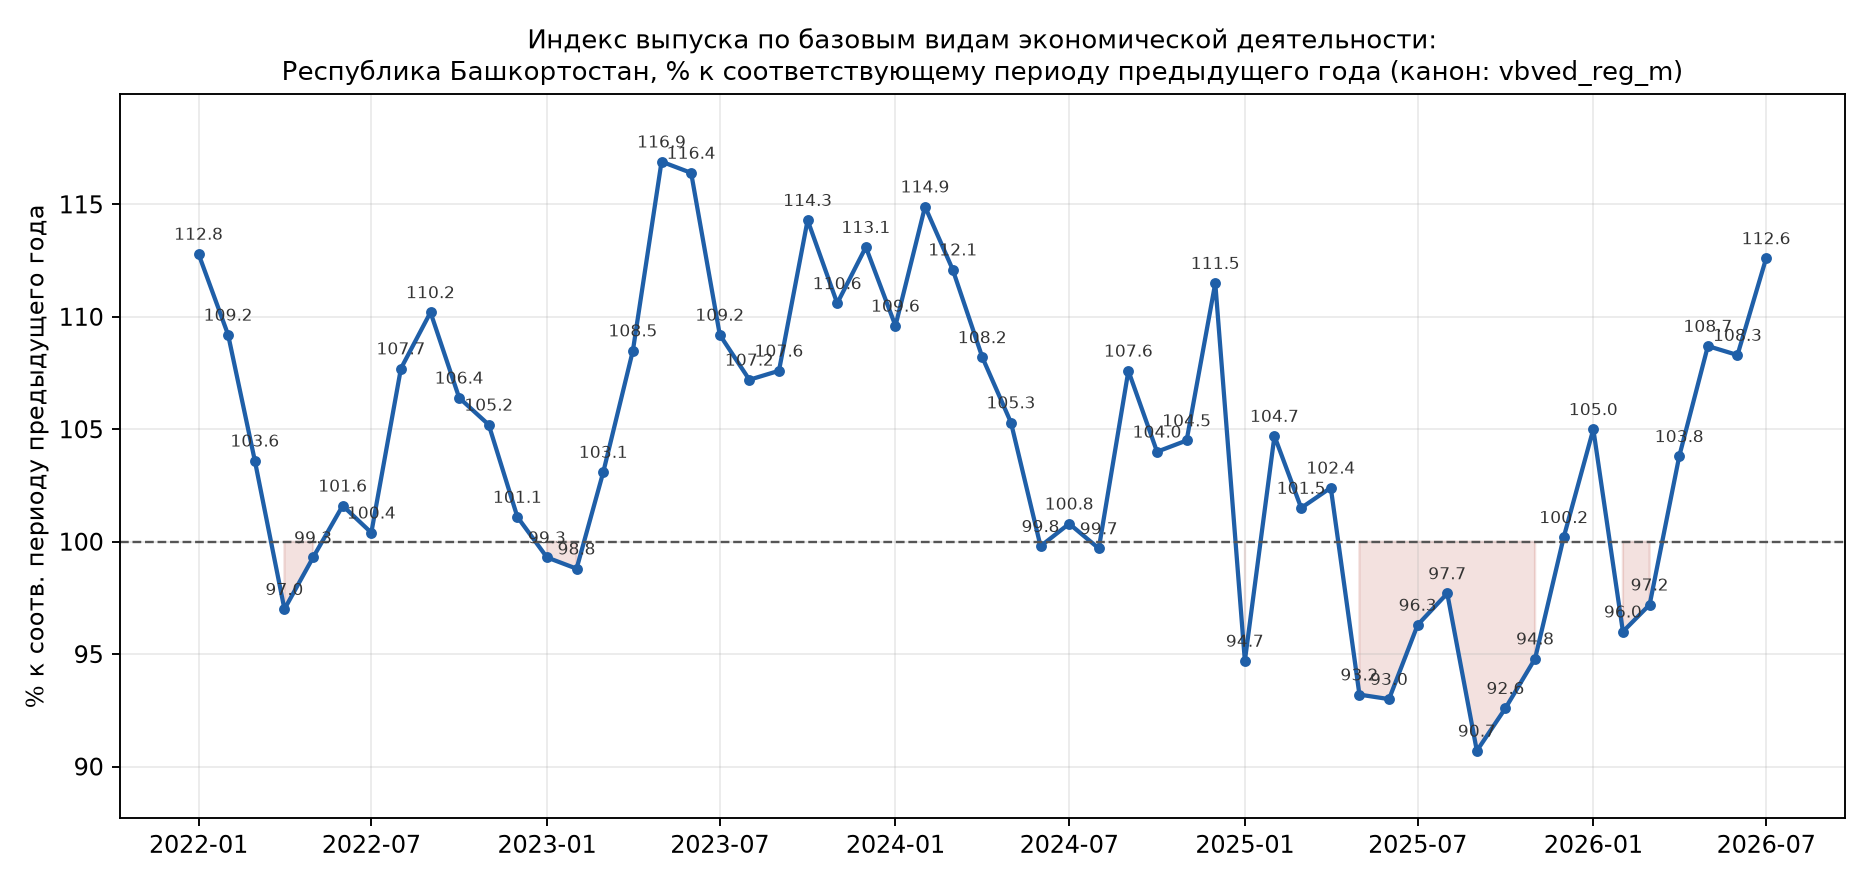
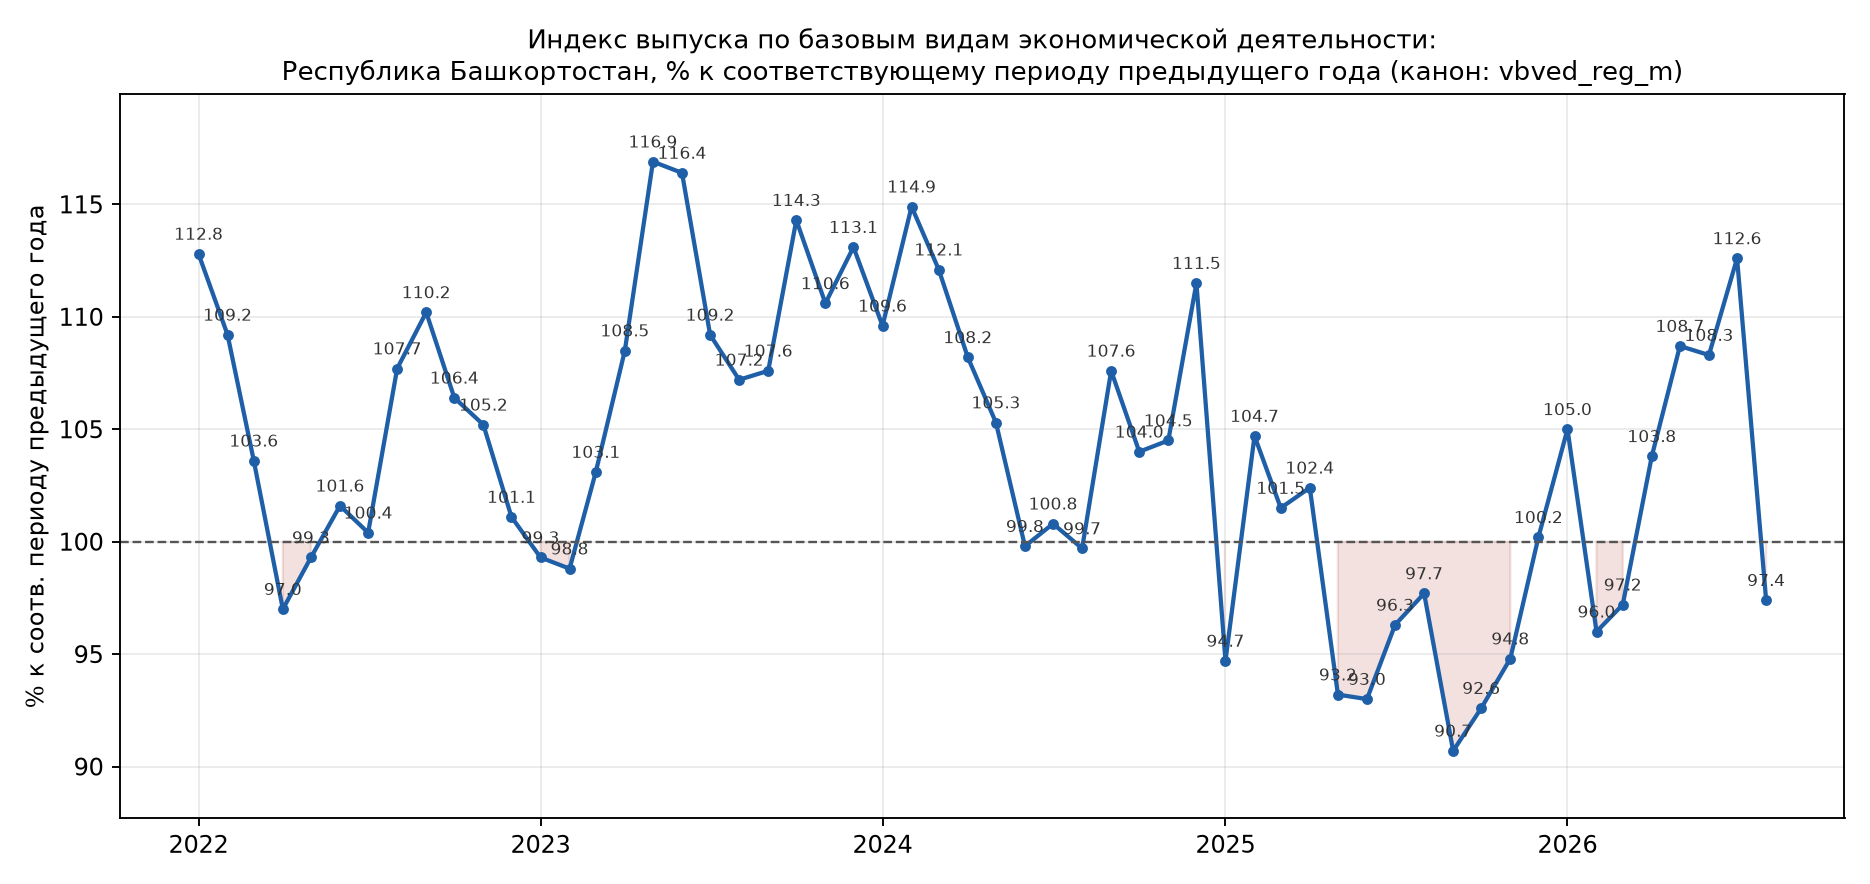
ВБВЭД: первоисточник fedstat через exit node ноутбука, август 2026 в каноне

diff --git a/scripts/vbved_reg_canon.py b/scripts/vbved_reg_canon.py
@@ -25,6 +25,7 @@ from __future__ import annotations
 
 import argparse
 import collections
+import time
 import json
 import os
 import re
@@ -49,6 +50,8 @@ METRIC_CODE = 'vbved_reg_m'
 METRIC_NAME = ('Индекс выпуска товаров и услуг по базовым видам экономической '
                'деятельности, % к соответствующему периоду предыдущего года (регионы)')
 RELEASE = 'ЕМИСС 62024, зеркало nsEDC, снимок 2026-10-20'
+RELEASE_FEDSTAT = 'ЕМИСС 62024, fedstat.ru (первоисточник), снимок 2026-10-21'
+XLS_PATH = os.path.join(RAW_DIR, '62024_fedstat_20261021.xls')
 UNIT = 'pct'
 FREQ = 'M'
 
@@ -86,6 +89,51 @@ def fetch_raw() -> None:
 def clean_region(s: str) -> str:
     s = re.sub(r'^\s*\d{3,11}\s+', '', str(s))
     return re.sub(r'\s+', ' ', s).strip()
+
+
+def period_of(per: str):
+    """'115 январь' → ('январь', None); 'M01_02 январь-февраль' → (…, 'накопительно: …')."""
+    m = re.match(r'^[A-Za-z0-9_]+\s+(.+)$', str(per).strip())
+    label = (m.group(1) if m else str(per)).strip()
+    if label in MONTHS:
+        return label, None
+    if re.match(r'^январь-', label):
+        return label, 'накопительно: %s' % label
+    return None, None
+
+
+def parse_xls(path: str) -> tuple[list[dict], dict]:
+    """Первоисточник: выгрузка ЕМИСС (кнопка «Скачать», формат excel).
+
+    Лист «Данные»: строки — вид показателя, регион, единица, период; годы — колонками.
+    """
+    import xlrd
+    wb = xlrd.open_workbook(path)
+    sh = wb.sheet_by_index(0)
+    hdr = sh.row_values(2)
+    year_cols = {int(h): i for i, h in enumerate(hdr) if re.fullmatch(r'\d{4}', str(h).strip())}
+    stats = {'строк в файле': sh.nrows - 3, 'месячных': 0, 'накопительных': 0,
+             'значений': 0, 'пустых': 0, 'годы': sorted(year_cols)}
+    rows = []
+    for i in range(3, sh.nrows):
+        v = sh.row_values(i)
+        label, sub = period_of(v[3])
+        if label is None:
+            continue
+        stats['месячных' if sub is None else 'накопительных'] += 1
+        reg = clean_region(v[1])
+        for y, col in year_cols.items():
+            raw = v[col]
+            if raw is None or str(raw).strip() in ('', '-'):
+                stats['пустых'] += 1
+                continue
+            val = raw if isinstance(raw, float) else float(str(raw).replace(',', '.').strip())
+            rows.append({'регион': reg, 'год': y,
+                         'месяц': MONTHS.get(label) if sub is None else None,
+                         'метка': label, 'sub': sub, 'значение': float(val),
+                         'единица': str(v[2])})
+            stats['значений'] += 1
+    return rows, stats
 
 
 def parse() -> tuple[list[dict], dict]:
@@ -131,7 +179,7 @@ def parse() -> tuple[list[dict], dict]:
     return rows, stats
 
 
-def build(rows, w: Writer) -> tuple[list[dict], dict]:
+def build(rows, w: Writer, release: str = RELEASE) -> tuple[list[dict], dict]:
     """Строки под Writer.ingest + счётчики распознавания регионов."""
     names = {}
     # варианты состава различаем подразрезом ТОЛЬКО когда на один регион в источнике
@@ -161,7 +209,7 @@ def build(rows, w: Writer) -> tuple[list[dict], dict]:
         out.append({'metric_name': METRIC_NAME, 'value': r['значение'],
                     'ps': (r['год'], r['месяц'] if r['месяц'] else 1),
                     'region': rid, 'sub': sub, 'freq': FREQ,
-                    'source': SOURCE, 'release': RELEASE, 'unit': UNIT,
+                    'source': SOURCE, 'release': release, 'unit': UNIT,
                     '_label': r['метка']})
     # накопительные периоды ставим началом периода: (год, 1), месяц 1
     return out, {'не распознано': sorted(set(lost))}
@@ -188,19 +236,33 @@ def main() -> int:
     ap.add_argument('--check', action='store_true')
     ap.add_argument('--apply', action='store_true')
     ap.add_argument('--refresh', action='store_true', help='перекачать сырьё из зеркала')
+    ap.add_argument('--xls', nargs='?', const=XLS_PATH, default=None,
+                    help='читать выгрузку первоисточника (fedstat) вместо зеркала')
+    ap.add_argument('--drop-mirror', action='store_true',
+                    help='после записи снять строки зеркального релиза (первоисточник их замещает)')
     a = ap.parse_args()
     if not (a.check or a.apply):
         ap.error('нужен --check или --apply')
     if a.refresh:
         fetch_raw()
-    rows, stats = parse()
+    if a.xls:
+        if not os.path.exists(a.xls):
+            print('ОСТАНОВ: нет файла %s' % a.xls)
+            return 2
+        rows, stats = parse_xls(a.xls)
+        release = RELEASE_FEDSTAT
+        print('источник: первоисточник fedstat (%s)' % os.path.basename(a.xls))
+    else:
+        rows, stats = parse()
+        release = RELEASE
+        print('источник: зеркало nsEDC (%s)' % os.path.basename(CSV_PATH))
     print('разбор: строк %d, месячных %d, накопительных %d, значений %d, пусто %d'
           % (stats['строк в файле'], stats['месячных'], stats['накопительных'],
              stats['значений'], stats['пустых']))
     print('единицы в источнике: %s' % sorted({r['единица'] for r in rows}))
 
     w = Writer(tag='vbved', simulate=a.check)
-    prep, info = build(rows, w)
+    prep, info = build(rows, w, release=release)
     print('подготовлено наблюдений: %d | регион не распознан: %s'
           % (len(prep), info['не распознано'] or 'нет'))
     if info['не распознано']:
@@ -214,7 +276,7 @@ def main() -> int:
 
     mid, created = ensure_metric(w)
     os.makedirs(ATTIC, exist_ok=True)
-    dump = os.path.join(ATTIC, 'vbved_reg_m_before_%s.csv.gz' % '20261020')
+    dump = os.path.join(ATTIC, 'vbved_reg_m_before_%s.csv.gz' % time.strftime('%Y%m%d_%H%M%S'))
     n_old = w.dump_group([METRIC_NAME], dump, delete=False) if not created else 0
     print('метрика %s (новая: %s), прежних строк в дампе: %d' % (METRIC_CODE, created, n_old))
 
@@ -222,6 +284,12 @@ def main() -> int:
     n_prep, n_ins, n_conf, n_new = w.ingest(prep_clean, group='emiss_vbved')
     print('итог: подготовлено %d, вставлено %d, конфликтов %d, новых метрик %d'
           % (n_prep, n_ins, n_conf, n_new))
+    if a.drop_mirror and release == RELEASE_FEDSTAT:
+        w.cur.execute("""DELETE FROM data.observation o USING core.release r
+                         WHERE o.release_id = r.release_id AND o.metric_id = %s
+                           AND r.release_label = %s""", (mid, RELEASE))
+        print('снято строк зеркального релиза: %d' % w.cur.rowcount)
+        w.conn.commit()
     w.close()
     return 0
 

diff --git a/queries/vbved-emiss-62024-mirror-20261020.md b/queries/vbved-emiss-62024-mirror-20261020.md
@@ -100,9 +100,48 @@ package_show?id=emiss_62024 -> resources: 62024.parquet | 62024.csv.gz | 62024.x
 
 ## 6. Что осталось сделать
 
-- обновление снимка: `--refresh` тянет свежий файл из зеркала; если зеркало отстаёт,
-  единственный путь свежее — резидентный канал (ноутбук как exit node) и прямой ЕМИСС;
 - карточки метрик (`derived.metric_card`) пересобираются отдельным прогоном
   `scripts/build_metric_cards.py` — новый код `vbved_reg_m` в семантический поиск попадёт
   после этого прогона;
 - страновой аналог ВБВЭД (ЕМИСС 58599/40674) в канон не заводился.
+
+## 7. Первоисточник подключён (21.10.2026): exit node ноутбука и выгрузка fedstat
+
+Резидентный канал заработал, и канон переведён на первоисточник. Узел ноутбука
+(`DESKTOP-485MNGE`, 100.114.29.93) сначала был просто онлайн через DERP-релей в Варшаве
+(отклик 121–233 мс), но не объявлял себя выходным, поэтому `ru_egress.py` отвечал «нет пиров,
+объявивших себя exit node». После `tailscale up --advertise-exit-node` и одобрения маршрута
+в админ-консоли флаг `ExitNodeOption` стал `true`, и трафик пошёл с адреса 145.255.10.176
+(Уфанет) вместо 45.157.117.125 (Франкфурт).
+
+**Питфолл, которого не было в заметках.** `tailscale set --exit-node=…` на VPS падал с
+`Cannot advertise an exit node and use an exit node at the same time`: хост сам рекламировал
+`0.0.0.0/0`, а Tailscale запрещает совмещать роли. Порядок такой — `sudo tailscale set
+--advertise-exit-node=false`, затем `sudo tailscale set --exit-node=100.114.29.93`, работа в
+окне, и в конце обратно `--advertise-exit-node=true`. Команды требуют root (`tailscale set`
+без sudo отдаёт `Access denied: checkprefs`), на VPS это `sudo -A` через askpass-хелпер.
+Окно держать коротким: пока оно открыто, весь трафик хоста, включая служебный, идёт через
+ноутбук. Рабочий сценарий — `~/personal/scripts/emiss_window_probe.sh` (ставит окно,
+выполняет запросы, снимает окно по `trap EXIT`).
+
+**Выгрузка без браузера.** Кнопка «Скачать» на странице показателя — это POST на
+`/indicator/62024/download` с полями Struts-токена (`struts.token.name=token`, `token=<значение>`),
+`id=62024` и `format=excel|sdmx`. Токен одноразовый: сначала GET страницы с cookie-jar,
+затем вытащить `name="token" value="…"` и отправить POST с теми же cookie. Прямые
+`data.do?format=excel` и `/opendata/62024` отдают главную страницу либо редирект, а
+`/indicator/62024/download` без токена возвращает «CSRF блокировка». SDMX-выгрузка
+оказалась непригодной: время схлопнуто в один год (все наблюдения помечены 2023), поэтому
+источник разбирается из excel-выгрузки (OLE2, лист «Данные», годы колонками; чтение `xlrd`).
+
+**Что стало в каноне.** Релиз `ЕМИСС 62024, fedstat.ru (первоисточник), снимок 2026-10-21`:
+10 165 наблюдений по тем же 93 территориям, зеркальный релиз снят целиком (9 975 строк,
+дамп прежнего состояния — в `attic/vbved_reg_m_before_*.csv.gz`). Сверка с зеркалом по
+январю–июлю 2026 сошлась до десятых (105,0; 96,0; 97,2; 103,8; 108,7; 108,3; 112,6), а
+добавился август 2026 — **97,4 %** (накопленно январь–август 103,4 %), то есть август
+прервал восстановление после провала 2025 года. Август есть по всем 93 территориям;
+в срезе без подразреза видно 91 строку, потому что у Архангельской и Тюменской областей
+месячные значения несут метку `состав:` (две строки источника на один регион).
+
+Обновление дальше — `vbved_reg_canon.py --xls --apply --drop-mirror` на свежей выгрузке,
+снятой тем же окном; зеркальный путь (`--refresh`) остаётся резервным для месяцев, когда
+ноутбук недоступен.

diff --git a/index.md b/index.md
@@ -79,7 +79,7 @@
 - [[queries/research-radar-2026-10-18|Research Radar 2026-10-18]] — недельный скан (NEP-HRE-2026-10-12, NBER w35863, SSRN, IREF, Dallas Fed; arXiv/ЦБ/FEDS/ECB без жилья): 6 работ (Zavacky–Melecky режимная зависимость макропруденциальной трансмиссии → H-005 evidence_for, Soltas–Gruber цена предодобренного разрешения +50% и +10 п.п. к вводу → H-013 evidence, D'Amico–Soltas–Wang длительность permitting растёт монотонно → H-013 evidence, Murphy–Shaheen против LMV → H-002 контекст, Miles канал платежа → H-029 контекст, Guren синтез JEL → X-003 контекст); 2 патча реестра, H-034 (testing) без карточки канбана, пробелы №1–2 открыты
 - [[queries/ml-zombie-firm-classification|ML-классификация зомби-фирм (arXiv 2306.08165)]] — XGBoost с неслучайными пропусками отчётности как признаками (Италия, 305К фирм); кандидат в робастность H-002 (контроль зомби-статуса) и фильтр слабых фирм для H-008; релевантно панели ФНС (87% УСН, пропуски информативны)
 - [[queries/retrieve-for-train-google]] — разбор Retrieve-for-Train (Google/ICML 2026): RL-компиляция поиска
-- [[queries/vbved-emiss-62024-mirror-20261020|ВБВЭД по субъектам РФ в каноне: маршрут через зеркало ЕМИСС]] — ряд `vbved_reg_m` заведён прямым загрузчиком (9 975 наблюдений, 93 региона, 2022-01…2026-07, конфликтов 0); ряд Башкортостана: 2025 среднее 96,82 % против 101,61 % по ПФО, 2026 — 104,51 % против 102,39 %; гипотезы H-VB-1…3
+- [[queries/vbved-emiss-62024-mirror-20261020|ВБВЭД по субъектам РФ в каноне: от зеркала ЕМИСС к первоисточнику]] — ряд `vbved_reg_m` заведён прямым загрузчиком (10 165 наблюдений, 93 региона, 2022-01…2026-08); Башкортостан: 2025 среднее 96,82 % против 101,61 % по ПФО, август 2026 — 97,4 %; рецепт exit node ноутбука и выгрузки fedstat без браузера; гипотезы H-VB-1…3
 
 - *Инфраструктурные записки (спецификации БД, планы миграции, разборы
   инцидентов) ведутся в приватном репозитории и в витрину не входят.*
